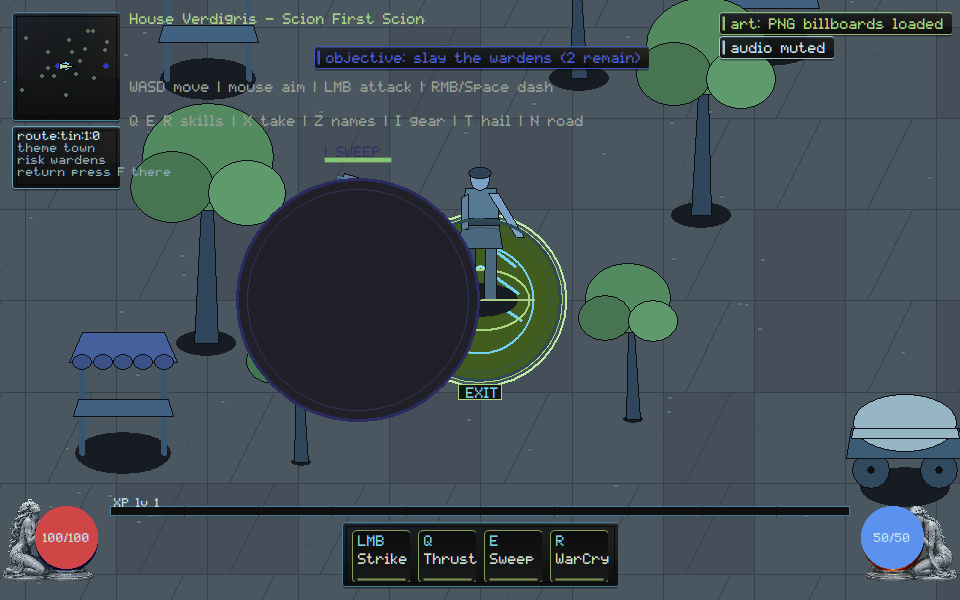
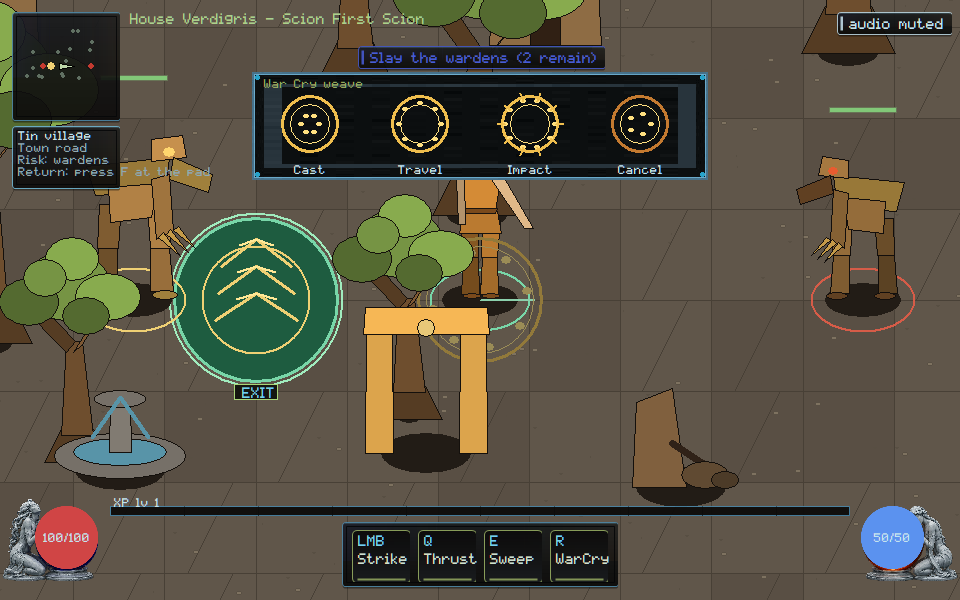
native: give War Cry a bronze cast-travel-impact family
Cast motes, travel orbit, impact ticks, and cancel implode share identity. A blob or screen-filling ring cannot hide a telegraph.

diff --git a/native/client/main.cpp b/native/client/main.cpp
@@ -465,6 +465,7 @@ struct ClientState {
   verdigris::client::items::LootFilter loot_filter{};
   bool gear_overlay = false;
   bool pose_review_strip = false;
+  bool weave_review_strip = false;
   bool debug_overlay = false;
   // Last full paint_scene duration in milliseconds (F3 overlay); the honest
   // per-frame budget readout that catches presentation-cost regressions.
@@ -2111,8 +2112,9 @@ PresentationResources presentation_resources(const ClientState& state) {
 }
 
 void fill_ellipse(HDC dc, int cx, int cy, int rx, int ry, COLORREF color) {
-  HBRUSH brush = cached_brush(color);
-  HPEN pen = cached_pen(color, 1);
+  const COLORREF drawn = vector_art::dc_color(dc, color);
+  HBRUSH brush = cached_brush(drawn);
+  HPEN pen = cached_pen(drawn, 1);
   HGDIOBJ old_brush = SelectObject(dc, brush);
   HGDIOBJ old_pen = SelectObject(dc, pen);
   Ellipse(dc, cx - rx, cy - ry, cx + rx, cy + ry);
@@ -2121,7 +2123,8 @@ void fill_ellipse(HDC dc, int cx, int cy, int rx, int ry, COLORREF color) {
 }
 
 void ring_ellipse(HDC dc, int cx, int cy, int rx, int ry, COLORREF color, int width) {
-  HPEN pen = cached_pen(color, width);
+  const COLORREF drawn = vector_art::dc_color(dc, color);
+  HPEN pen = cached_pen(drawn, width);
   HGDIOBJ old_pen = SelectObject(dc, pen);
   HGDIOBJ old_brush = SelectObject(dc, GetStockObject(NULL_BRUSH));
   Ellipse(dc, cx - rx, cy - ry, cx + rx, cy + ry);
@@ -2130,7 +2133,8 @@ void ring_ellipse(HDC dc, int cx, int cy, int rx, int ry, COLORREF color, int wi
 }
 
 void draw_line(HDC dc, int x0, int y0, int x1, int y1, COLORREF color, int width) {
-  HPEN pen = cached_pen(color, width);
+  const COLORREF drawn = vector_art::dc_color(dc, color);
+  HPEN pen = cached_pen(drawn, width);
   HGDIOBJ old_pen = SelectObject(dc, pen);
   MoveToEx(dc, x0, y0, nullptr);
   LineTo(dc, x1, y1);
@@ -2992,14 +2996,16 @@ void draw_effect(HDC dc, const Camera& camera, const RECT& bounds, const EffectF
       break;
     }
     case EffectFx::Kind::WarCryAura: {
-      // VG-ART-006: one bronze weave family. Cast then impact rings share
-      // identity; radius is capped so spectacle cannot blanket warnings.
+      // VG-ART-006: one bronze weave family. Cast motes, travel orbit, and
+      // impact ticks share identity; radius is capped so spectacle cannot
+      // blanket warnings.
       int radius = static_cast<int>(kTileUnits * (0.38 + grow * 0.72) *
                                     base.scale);
       const int short_edge =
           (std::min)(static_cast<int>(bounds.right), static_cast<int>(bounds.bottom));
       const int cap = (std::max)(8, short_edge / 6);
       if (radius > cap) radius = cap;
+      radius = std::max(8, radius);
       const char* weave = "vfx-weave:impact";
       if (grow < 0.28)
         weave = "vfx-weave:cast";
@@ -3011,10 +3017,30 @@ void draw_effect(HDC dc, const Camera& camera, const RECT& bounds, const EffectF
       rl.push_back({render::Op::Hud, static_cast<double>(base.x),
                     static_cast<double>(base.y), static_cast<double>(radius), 0,
                     weave});
-      const COLORREF color = fade_to_background(RGB(239, 190, 78), life);
-      ring_ellipse(dc, base.x, base.y, radius, radius, color, 3);
+      const COLORREF bronze = fade_to_background(vector_art::kWeaveBronze, life);
+      const COLORREF bright = fade_to_background(vector_art::kWeaveBright, life);
+      const COLORREF ember = fade_to_background(vector_art::kWeaveEmber, life);
+      ring_ellipse(dc, base.x, base.y, radius, radius, bronze, 3);
       ring_ellipse(dc, base.x, base.y, std::max(3, radius - 8),
-                   std::max(3, radius - 8), fade_to_background(RGB(255, 224, 128), life), 1);
+                   std::max(3, radius - 8), bright, 1);
+      const int motes = grow < 0.28 ? 6 : (grow < 0.58 ? 8 : 10);
+      const double spin = fx.age * 0.45 + grow * 2.4;
+      for (int i = 0; i < motes; ++i) {
+        const double a = spin + i * (2.0 * kPi / motes);
+        const double d =
+            grow < 0.28 ? radius * (0.22 + grow * 0.4)
+                        : (grow < 0.58 ? radius * 0.78 : radius * 0.92);
+        const int mx = base.x + static_cast<int>(std::cos(a) * d);
+        const int my = base.y + static_cast<int>(std::sin(a) * d);
+        const int mr = std::max(2, radius / (grow < 0.58 ? 11 : 9));
+        fill_ellipse(dc, mx, my, mr, std::max(2, mr - 1),
+                     grow < 0.58 ? bright : ember);
+        if (grow >= 0.58) {
+          const int tx = base.x + static_cast<int>(std::cos(a) * (radius + 6));
+          const int ty = base.y + static_cast<int>(std::sin(a) * (radius + 6));
+          draw_line(dc, mx, my, tx, ty, bronze, 2);
+        }
+      }
       break;
     }
     case EffectFx::Kind::Impact: {
@@ -3142,9 +3168,20 @@ void draw_effect(HDC dc, const Camera& camera, const RECT& bounds, const EffectF
               phase_a::kWarcryFadeColor.b),
           life);
       const int radius =
-          static_cast<int>(kTileUnits * (0.9 - grow * 0.62) * base.scale);
-      ring_ellipse(dc, base.x, base.y, (std::max)(3, radius), (std::max)(3, radius),
-                   color, 2);
+          std::max(4, static_cast<int>(kTileUnits * (0.9 - grow * 0.62) *
+                                       base.scale));
+      ring_ellipse(dc, base.x, base.y, radius, radius, color, 2);
+      ring_ellipse(dc, base.x, base.y, std::max(3, radius / 2),
+                   std::max(3, radius / 2),
+                   fade_to_background(vector_art::kWeaveEmber, life), 1);
+      const double spin = fx.age * 0.7;
+      for (int i = 0; i < 5; ++i) {
+        const double a = spin + i * (2.0 * kPi / 5.0);
+        const double d = radius * (0.85 - grow * 0.55);
+        const int mx = base.x + static_cast<int>(std::cos(a) * d);
+        const int my = base.y + static_cast<int>(std::sin(a) * d);
+        fill_ellipse(dc, mx, my, 2, 2, color);
+      }
       break;
     }
     case EffectFx::Kind::ScionLostBeat: {
@@ -5859,6 +5896,66 @@ void paint_attack_pose_strip(ClientState& state, HDC dc, const RECT& bounds,
   SelectObject(dc, old_font);
 }
 
+void paint_weave_review_strip(ClientState& state, HDC dc, const RECT& bounds,
+                              render::List& rl) {
+  if (!state.weave_review_strip) return;
+  const int s = hud_scale(static_cast<int>(bounds.bottom));
+  const int pane_w = 456 * s;
+  const int pane_h = 108 * s;
+  const int left = (static_cast<int>(bounds.right) - pane_w) / 2;
+  const int top = 72 * s;
+  RECT pane{left, top, left + pane_w, top + pane_h};
+  if (!draw_framekit_nine(state.billboards, dc, state.billboards.fk_panel, pane))
+    skin::panel(dc, pane, skin::kVerdigris, 235, 8.0f);
+  rl.push_back({render::Op::Hud, static_cast<double>(left),
+                static_cast<double>(top), 0.0, 4, "weave-strip"});
+  SetBkMode(dc, TRANSPARENT);
+  HGDIOBJ old_font = SelectObject(dc, skin::font_small());
+  SetTextColor(dc, skin::kVerdigris);
+  const char* title = "War Cry weave";
+  TextOutA(dc, left + 12 * s, top + 6 * s, title, static_cast<int>(strlen(title)));
+  const char* names[4] = {"Cast", "Travel", "Impact", "Cancel"};
+  const char* tokens[4] = {"weave-strip:cast", "weave-strip:travel",
+                           "weave-strip:impact", "weave-strip:cancel"};
+  const double grows[4] = {0.12, 0.42, 0.82, 0.55};
+  for (int i = 0; i < 4; ++i) {
+    const int cx = left + 58 * s + i * 110 * s;
+    const int cy = top + 52 * s;
+    const int radius = 28 * s;
+    const double grow = grows[i];
+    const bool cancel = i == 3;
+    const COLORREF bronze = cancel ? vector_art::kWeaveEmber : vector_art::kWeaveBronze;
+    const COLORREF bright = vector_art::kWeaveBright;
+    ring_ellipse(dc, cx, cy, radius, radius, bronze, 3);
+    ring_ellipse(dc, cx, cy, std::max(4, radius - 8), std::max(4, radius - 8),
+                 bright, 1);
+    const int motes = cancel ? 5 : (grow < 0.28 ? 6 : (grow < 0.58 ? 8 : 10));
+    for (int m = 0; m < motes; ++m) {
+      const double a = m * (2.0 * kPi / motes);
+      const double d = cancel ? radius * 0.4 : (grow < 0.28 ? radius * 0.35
+                                              : (grow < 0.58 ? radius * 0.78
+                                                             : radius * 0.9));
+      const int mx = cx + static_cast<int>(std::cos(a) * d);
+      const int my = cy + static_cast<int>(std::sin(a) * d);
+      fill_ellipse(dc, mx, my, 3 * s, 2 * s, bright);
+      if (!cancel && grow >= 0.58) {
+        const int tx = cx + static_cast<int>(std::cos(a) * (radius + 5 * s));
+        const int ty = cy + static_cast<int>(std::sin(a) * (radius + 5 * s));
+        draw_line(dc, mx, my, tx, ty, bronze, 2);
+      }
+    }
+    SIZE extent{};
+    GetTextExtentPoint32A(dc, names[i], static_cast<int>(strlen(names[i])),
+                          &extent);
+    SetTextColor(dc, skin::kInk);
+    TextOutA(dc, cx - extent.cx / 2, top + pane_h - 16 * s, names[i],
+             static_cast<int>(strlen(names[i])));
+    rl.push_back({render::Op::Hud, static_cast<double>(cx),
+                  static_cast<double>(cy), 0.0, i + 1, tokens[i]});
+  }
+  SelectObject(dc, old_font);
+}
+
 const char* attack_stage_label(vector_art::Pose::AttackStage stage) {
   switch (stage) {
     case vector_art::Pose::AttackStage::Windup:
@@ -6866,6 +6963,7 @@ void paint_scene(ClientState& state, HDC dc, const RECT& bounds) {
   }
 
   paint_attack_pose_strip(state, dc, bounds, rl);
+  paint_weave_review_strip(state, dc, bounds, rl);
 
   state.render_list = std::move(rl);
   if (state.debug_overlay) {
@@ -10168,6 +10266,46 @@ int scenario_weave_vfx() {
     scenario_check(warcry_radius() <= cap,
                    "weave-vfx: overlapping weave still respects the radius cap");
   }
+
+  scenario_check(vector_art::blob_weave_fails_review(false, true, true, true),
+                 "weave-vfx: a blob without cast motes cannot certify the family");
+  scenario_check(!vector_art::blob_weave_fails_review(
+                     vector_art::kWeaveHasCastMotes, vector_art::kWeaveHasTravelOrbit,
+                     vector_art::kWeaveHasImpactTicks,
+                     vector_art::kWeaveHasCancelImplode),
+                 "weave-vfx: cast/travel/impact/cancel share bronze identity");
+
+  for (int i = 0; i < 24; ++i)
+    scenario_step(state, verdigris::Command::move(1, 0));
+  scenario_follow_camera(state);
+  state.effects.clear();
+  EffectFx shown;
+  shown.kind = EffectFx::Kind::WarCryAura;
+  shown.wx = static_cast<double>(state.world.player.position.x);
+  shown.wy = static_cast<double>(state.world.player.position.y);
+  shown.ttl = 14;
+  shown.age = 6;
+  add_effect(state, shown);
+  state.weave_review_strip = true;
+  scenario_present(state);
+  bool strip = false;
+  bool strip_cast = false;
+  bool strip_travel = false;
+  bool strip_impact = false;
+  bool strip_cancel = false;
+  for (const auto& item : state.render_list) {
+    if (item.op != render::Op::Hud) continue;
+    if (item.label == "weave-strip") strip = true;
+    if (item.label == "weave-strip:cast") strip_cast = true;
+    if (item.label == "weave-strip:travel") strip_travel = true;
+    if (item.label == "weave-strip:impact") strip_impact = true;
+    if (item.label == "weave-strip:cancel") strip_cancel = true;
+  }
+  scenario_check(strip && strip_cast && strip_travel && strip_impact &&
+                     strip_cancel,
+                 "weave-vfx: native strip paints all four weave beats");
+  scenario_check(has_hud("vfx-weave:travel"),
+                 "weave-vfx: capture pose is the travel beat at game scale");
 
   const std::string dir = art_wave_capture_dir();
   if (dir.empty()) {

diff --git a/native/client/vector_art.hpp b/native/client/vector_art.hpp
@@ -211,6 +211,21 @@ inline bool idle_as_attack_family_fails_review(bool only_idle_pose) {
   return only_idle_pose;
 }
 
+// VG-ART-006: WarCry weave beats share bronze identity. A single blob or
+// screen-filling ring cannot certify the family.
+inline constexpr bool kWeaveHasCastMotes = true;
+inline constexpr bool kWeaveHasTravelOrbit = true;
+inline constexpr bool kWeaveHasImpactTicks = true;
+inline constexpr bool kWeaveHasCancelImplode = true;
+inline constexpr COLORREF kWeaveBronze = RGB(239, 190, 78);
+inline constexpr COLORREF kWeaveBright = RGB(255, 224, 128);
+inline constexpr COLORREF kWeaveEmber = RGB(196, 122, 48);
+
+inline bool blob_weave_fails_review(bool cast_motes, bool travel_orbit,
+                                    bool impact_ticks, bool cancel_implode) {
+  return !cast_motes || !travel_orbit || !impact_ticks || !cancel_implode;
+}
+
 inline void humanoid(HDC dc, int cx, int base_y, int height_px,
                      const Style& style, const Pose& pose, Held held) {
   Frame f{cx, base_y, height_px / kAdultBodyUnits, pose.mirror};

diff --git a/native/client/assets/production/create-one-coherent-spell-vfx-family.md b/native/client/assets/production/create-one-coherent-spell-vfx-family.md
@@ -3,6 +3,9 @@
 Reference weave is the existing bronze War Cry aura (TASK-0122 apply/fade),
 not a new TASK and not TASK-0108 combat readability.
 
+Cast uses tight rising motes, travel an orbiting ring, impact radial ticks,
+and cancel an imploding ember ring. HUD labels stay:
+
 | Beat | Source | Render labels |
 |---|---|---|
 | cast | `WarCryAura` early life | `vfx-weave:cast` |
@@ -11,7 +14,7 @@ not a new TASK and not TASK-0108 combat readability.
 | cancel | `WarCryFade` | `vfx-weave:cancel` + `warcry-fade` |
 
 Ring radius is capped at 1/6 of the shorter viewport edge so spectacle
-cannot blanket a telegraph.
+cannot blanket a telegraph. A blob or screen-filling ring cannot certify.
 
 Acceptance command: `native/build/verdigris_client.exe --scenario weave-vfx`
 

diff --git a/orchestration/CURSOR_KIMI_LANES.md b/orchestration/CURSOR_KIMI_LANES.md
@@ -475,3 +475,13 @@ Please move off that branch before taking a new native path.
 - **Stay off** `native/client/main.cpp` and `docs/execution/**`. SEC/CORE
   remain yours. GOV-002 still unstamped.
 
+## Cursor reply (2026-09-06, bronze War Cry weave)
+
+- **Lease:** `main.cpp` still **ACTIVE**. `remote_session.cpp` stays
+  **RELEASED**. Do not re-spec TASK-0108 core/wire (`3b929637`).
+- **Landed this push:** VG-ART-006 — WarCry cast/travel/impact/cancel
+  share bronze motes and ticks; a blob or screen-fill cannot pass.
+  Captures viewed. Not Owner Demo.
+- **Stay off** `native/client/main.cpp` and `docs/execution/**`. SEC/CORE
+  remain yours. GOV-002 still unstamped.
+

diff --git a/docs/rebuild/HANDOFF.md b/docs/rebuild/HANDOFF.md
@@ -1,5 +1,13 @@
 # Native reconstitution handoff
 
+## 2026-09-06 — bronze War Cry weave family (Cursor)
+
+- VG-ART-006: cast motes, travel orbit, impact ticks, and cancel implode
+  share bronze identity. Radius stays inside a screen sixth so spectacle
+  cannot hide a telegraph. DIB effect rings use `dc_color` so gold is not
+  capture-black. Native `War Cry weave` strip paints all four beats.
+- Scenario `weave-vfx` PASS. Capture viewed. Not Owner Demo. Not TASK-0108.
+
 ## 2026-09-06 — readable strike family at game scale (Cursor)
 
 - VG-ART-003: windup cocks the blade; active lunges it forward. Limb pixel
